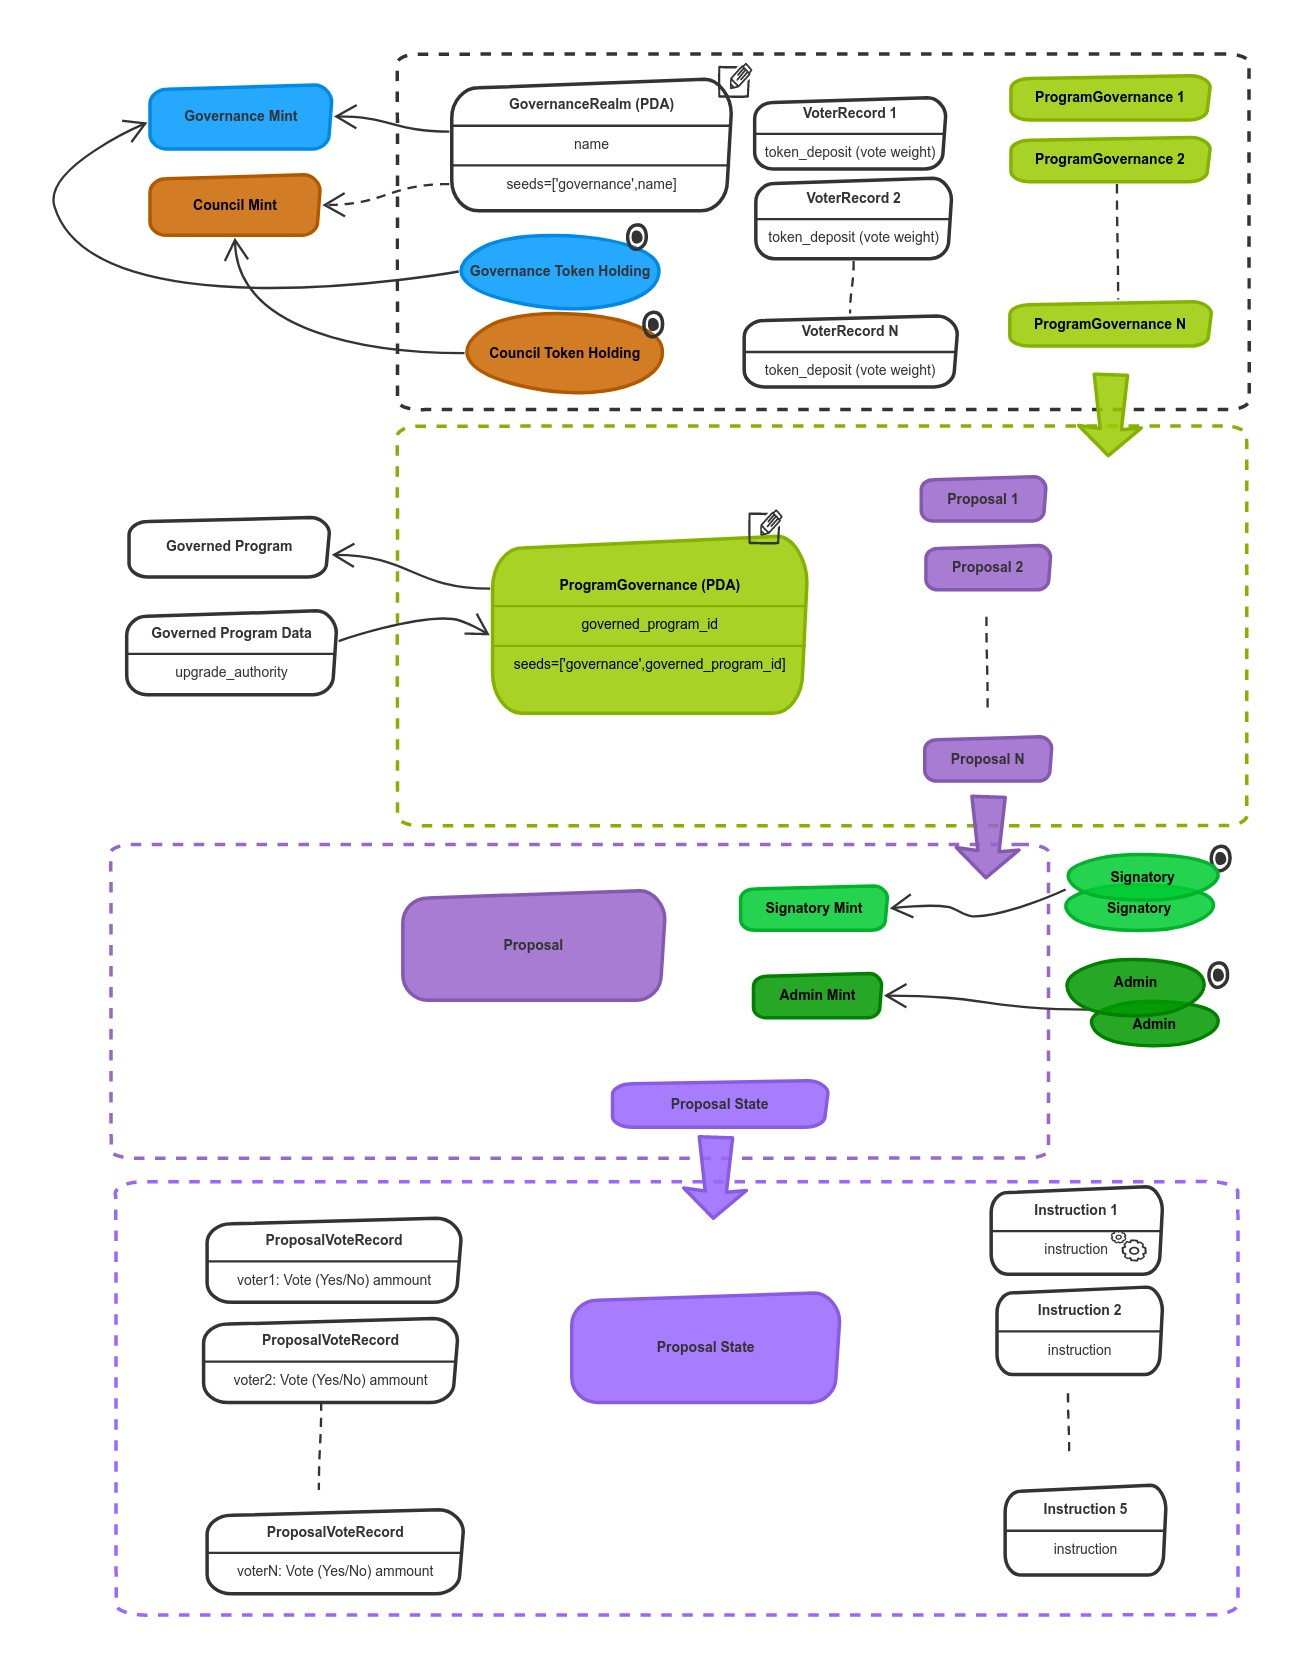
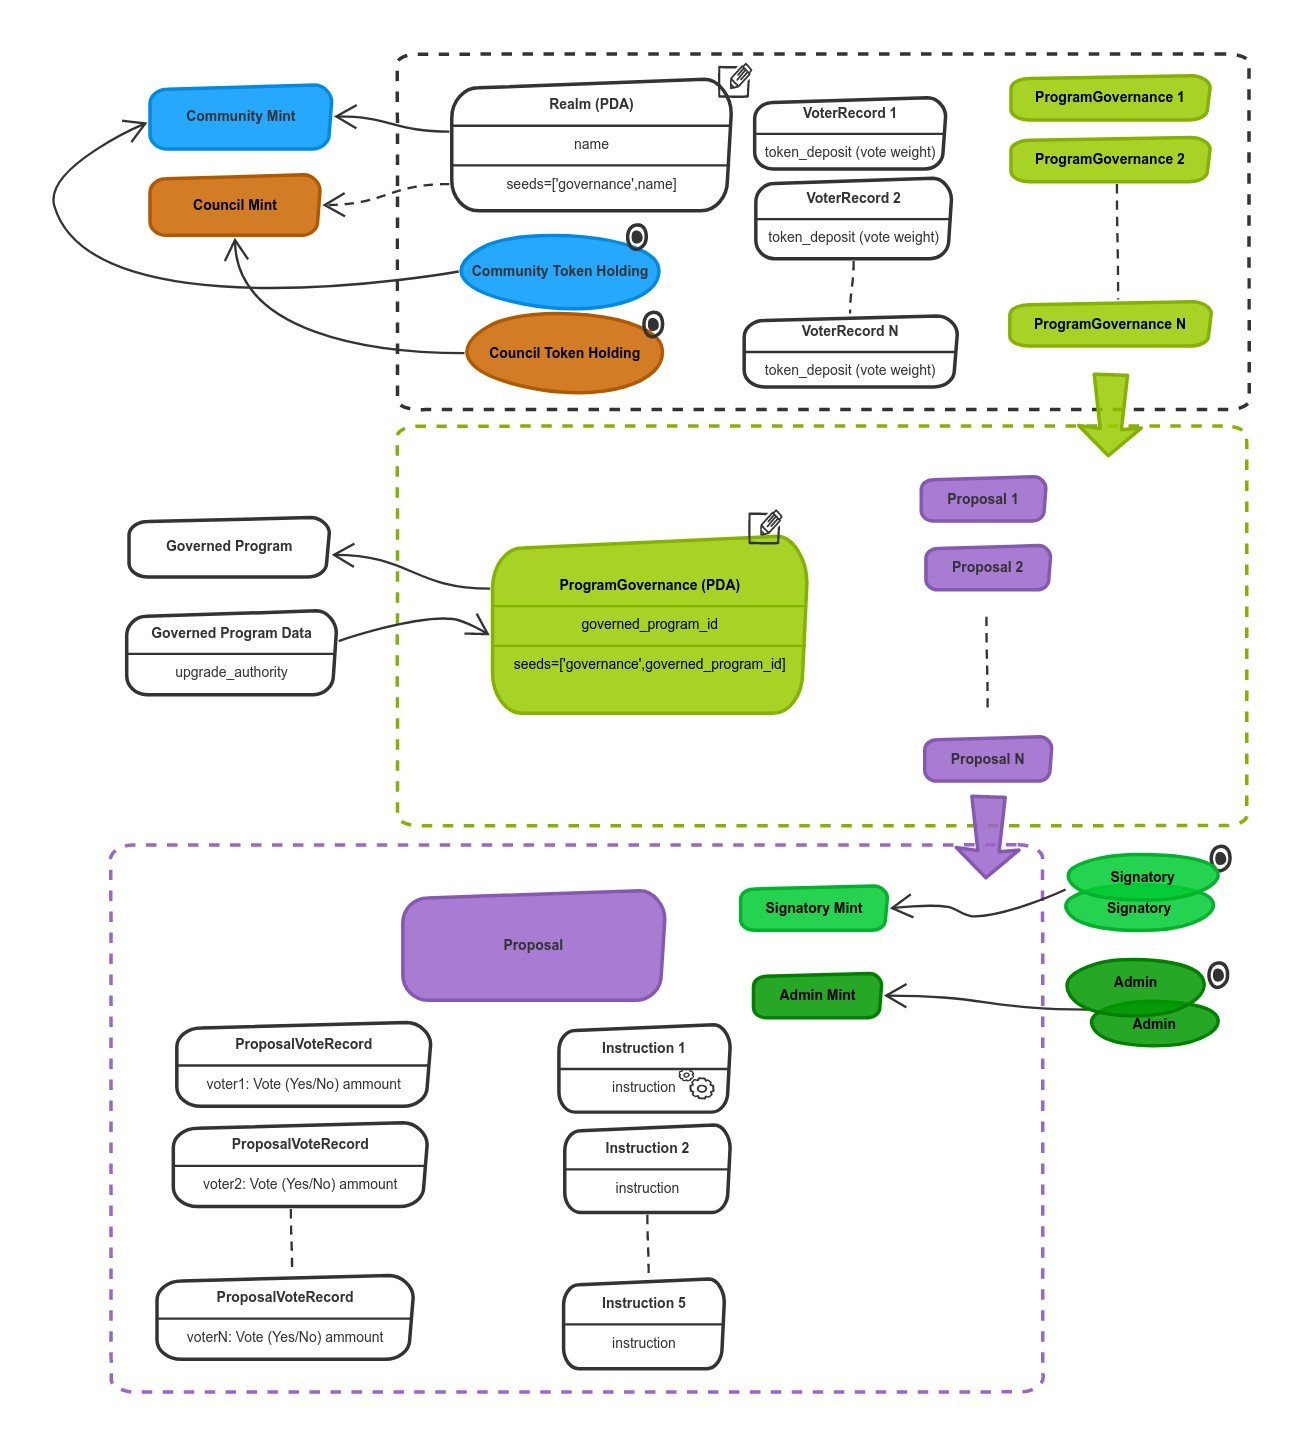
fix: rename Governance token to Community token

diff --git a/governance/program/src/instruction.rs b/governance/program/src/instruction.rs
@@ -19,24 +19,24 @@ pub enum Vote {
 #[repr(C)]
 #[allow(clippy::large_enum_variant)]
 pub enum GovernanceInstruction {
-    /// Creates Governance Realm account which aggregates governances for given Governance Mint and optional Council Mint
+    /// Creates Governance Realm account which aggregates governances for given Community Mint and optional Council Mint
     ///
     /// 0. `[writable]` Governance Realm account. PDA seeds:['governance',name]
-    /// 1. `[]` Governance Token Mint
-    /// 2. `[writable]` Governances Token Holding account
-    /// 3. `[signer]` Payer.
-    /// 4. `[]` System.
-    /// 5. `[]` SPL Token.
-    /// 6. `[]` Sysvar Rent.
+    /// 1. `[]` Community Token Mint
+    /// 2. `[writable]` Community Token Holding account
+    /// 3. `[signer]` Payer
+    /// 4. `[]` System
+    /// 5. `[]` SPL Token
+    /// 6. `[]` Sysvar Rent
     /// 7. `[]` Council Token Mint - optional
     /// 8. `[writable]` Council Token Holding account - optional
     CreateRealm {
-        /// UTF-8 encoded Governance Realm name.
+        /// UTF-8 encoded Governance Realm name
         name: String,
     },
 
-    /// Deposits governing tokens (Governance or Council) to Governance Realm and establishes your voter weight to be used for voting within the Realm
-    /// Note: If subsequent (top up) deposit is made and there are active votes for the Voter then the weights won't be updated automatically
+    /// Deposits governing tokens (Community or Council) to Governance Realm and establishes your voter weight to be used for voting within the Realm
+    /// Note: If subsequent (top up) deposit is made and there are active votes for the Voter then the vote weights won't be updated automatically
     /// It can be done by relinquishing votes on active Proposals and voting again with the new weight
     ///
     ///  0. `[]` Governance Realm account
@@ -44,12 +44,12 @@ pub enum GovernanceInstruction {
     ///  2. `[writable]` Governing Token Source account. All tokens from the account will be transferred to the Holding account
     ///  3. `[signer]` Governing Token Owner account
     ///  4. `[writable]` Voter Record account. PDA seeds: ['governance',realm, governing_token_mint, governing_token_owner]
-    ///  5. `[signer]` Payer.
-    ///  6. `[]` System.
-    ///  7. `[]` SPL Token.
+    ///  5. `[signer]` Payer
+    ///  6. `[]` System
+    ///  7. `[]` SPL Token
     DepositGoverningTokens {},
 
-    /// Withdraws governing tokens (Governance or Council) from Governance Realm and downgrades your voter weight within the Realm
+    /// Withdraws governing tokens (Community or Council) from Governance Realm and downgrades your voter weight within the Realm
     /// Note: It's only possible to withdraw tokens if the Voter doesn't have any outstanding active votes
     /// If there are any outstanding votes then they must be relinquished before tokens could be withdrawn
     ///
@@ -58,10 +58,10 @@ pub enum GovernanceInstruction {
     ///  2. `[writable]` Governing Token Destination account. All tokens will be transferred to this account
     ///  3. `[signer]` Governing Token Owner account
     ///  4. `[writable]` Voter Record account. PDA seeds: ['governance',realm, governing_token_mint, governing_token_owner]
-    ///  5. `[]` SPL Token.   
+    ///  5. `[]` SPL Token   
     WithdrawGoverningTokens {},
 
-    /// Sets vote authority for the given Realm and Governing Token Mint (Governance or Council)
+    /// Sets vote authority for the given Realm and Governing Token Mint (Community or Council)
     /// The vote authority would have voting rights and could vote on behalf of the Governing Token Owner
     ///
     /// 0. `[signer]` Governing Token Owner
@@ -80,7 +80,7 @@ pub enum GovernanceInstruction {
         vote_authority: Pubkey,
     },
 
-    /// Creates Program Governance account which governs an upgradable program.
+    /// Creates Program Governance account which governs an upgradable program
     ///
     ///   0. `[writable]` Governance account. PDA seeds: ['governance', governed_program]
     ///   1. `[]` Account of the Program governed by this Governance account
@@ -125,7 +125,7 @@ pub enum GovernanceInstruction {
         /// UTF-8 encoded name of the proposal
         name: String,
 
-        /// The Governing token (Governance or Council) which will be used for voting on the Proposal
+        /// The Governing token (Community or Council) which will be used for voting on the Proposal
         governing_token_type: GoverningTokenType,
     },
 
@@ -214,7 +214,7 @@ pub enum GovernanceInstruction {
     ///   6. `[]` Clock sysvar
     SignProposal,
 
-    ///  Uses your voter weight (deposited Governance or Council tokens) to cast a vote on a Proposal
+    ///  Uses your voter weight (deposited Community or Council tokens) to cast a vote on a Proposal
     ///  By doing so you indicate you approve or disapprove of running the Proposal set of instructions
     ///  If you tip the consensus then the instructions can begin to be run after their hold up time
     ///

diff --git a/governance/program/src/state.rs b/governance/program/src/state.rs
@@ -12,25 +12,25 @@ pub enum GovernanceAccountType {
     /// Default uninitialized account state
     Uninitialized,
 
-    /// Top level aggregation for governances within Governance Token (and optional Council Token).
+    /// Top level aggregation for governances with Community Token (and optional Council Token)
     Realm,
 
-    /// Voter record for each voter within a Realm.
+    /// Voter record for each voter and given governing token type within a Realm
     VoterRecord,
 
-    /// Program Governance account.
+    /// Program Governance account
     ProgramGovernance,
 
-    /// Proposal account for Governance account. A single Governance account can have multiple Proposal accounts.
+    /// Proposal account for Governance account. A single Governance account can have multiple Proposal accounts
     Proposal,
 
-    /// Proposal voting state account. Every Proposal account has exactly one ProposalState account.
+    /// Proposal voting state account. Every Proposal account has exactly one ProposalState account
     ProposalState,
 
-    /// Vote record account for a given Proposal.  Proposal can have 0..n voting records.
+    /// Vote record account for a given Proposal.  Proposal can have 0..n voting records
     ProposalVoteRecord,
 
-    /// Single Signer Instruction account which holds an instruction to execute for Proposal.
+    /// Single Signer Instruction account which holds an instruction to execute for Proposal
     SingleSignerInstruction,
 }
 
@@ -58,8 +58,8 @@ pub struct Realm {
     /// Governance account type
     pub account_type: GovernanceAccountType,
 
-    /// Governance mint
-    pub governance_mint: Pubkey,
+    /// Community mint
+    pub community_mint: Pubkey,
 
     /// Council mint
     pub council_mint: Option<Pubkey>,
@@ -72,8 +72,8 @@ pub struct Realm {
 #[repr(C)]
 #[derive(Clone)]
 pub enum GoverningTokenType {
-    /// Governance token
-    Governance,
+    /// Community token
+    Community,
     /// Council token
     Council,
 }
@@ -155,11 +155,11 @@ pub struct Proposal {
     /// to move instruction to voting state) and bring mint to net 0 tokens outstanding. Each signatory gets 1 (serves as flag)
     pub signatory_mint: Pubkey,
 
-    /// Admin ownership mint. One token is minted, can be used to grant admin status to a new person.
+    /// Admin ownership mint. One token is minted, can be used to grant admin status to a new person
     pub admin_mint: Pubkey,
 
-    /// Indicates which Governing Token is used to vote on the Proposal.
-    /// Whether the general Governance token owners populations or the Council votes on this Proposal
+    /// Indicates which Governing Token is used to vote on the Proposal
+    /// Whether the general Community token owners or the Council tokens owners vote on this Proposal
     pub voting_token_type: GoverningTokenType,
 }
 
@@ -185,7 +185,7 @@ pub struct ProposalState {
     /// Proposal name
     pub name: String,
 
-    /// When the Proposal ended voting - this will also be when the set was defeated or began executing naturally.
+    /// When the Proposal ended voting - this will also be when the set was defeated or began executing naturally
     pub voting_ended_at: Option<Slot>,
 
     /// When the Proposal began voting

diff --git a/governance/README.md b/governance/README.md
@@ -12,11 +12,11 @@ a voting population to vote on disbursement of access or funds collectively.
 
 ### Governance Realm account
 
-Governance Realm ties Governance Token Mint and optional Council Token mint to create a realm
+Governance Realm ties Community Token Mint and optional Council Token mint to create a realm
 for any governance pertaining to the community of the token holders.
 For example a trading protocol can issue a governance token and use it to create its governance realm.
 
-Once a realm is created voters can deposit Governing tokens (Governance or Council) to the realm and
+Once a realm is created voters can deposit Governing tokens (Community or Council) to the realm and
 use the deposited amount as their voting weight to vote on Proposals within that realm.
 
 ### Program Governance account
@@ -51,7 +51,7 @@ A Proposal is an instance of a Governance created to vote on and execute given s
 It is created by someone (Proposal Admin) and tied to a given Governance account
 and has a set of executable commands to it, a name and a description.
 It goes through various states (draft, voting, executing) and users can vote on it
-if they have relevant Governance or Council tokens.
+if they have relevant Community or Council tokens.
 It's rules are determined by the Governance account that it is tied to, and when it executes,
 it is only eligible to use the [Program Derived Address](https://docs.solana.com/developing/programming-model/calling-between-programs#program-derived-addresses)
 authority given by the Governance account.
@@ -62,15 +62,15 @@ With this power the Admin can add other Signatories to the Proposal.
 These Signatories can then add commands to the Proposal and/or sign off on the Proposal.
 Once all Signatories have signed off on the Proposal the Proposal leaves Draft state and enters Voting state.
 Voting state lasts as long as the Governance has it configured to last, and during this time
-people holding Governance (or Council) tokens may vote on the Proposal.
+people holding Community (or Council) tokens may vote on the Proposal.
 Once the Proposal is "tipped" it either enters the Defeated or Executing state.
 If Executed, it enters Completed state once all commands have been run.
 
 A command can be run by any one at any time after the `instruction_hold_up_time` length has transpired on the given command.
 
-### CustomSingleSignerInstruction
+### SingleSignerInstruction
 
-We only support one kind of executable command right now, and this is the CustomSingleSignerInstruction type.
+We only support one kind of executable command right now, and this is the `SingleSignerInstruction` type.
 A Proposal can have a certain number of these, and they run independently of each other.
 These contain the actual data for a command, and how long after the voting phase a user must wait before they can be executed.
 
@@ -82,10 +82,10 @@ and enters Succeeded or Defeated state. If Succeeded then Proposal instructions 
 
 Users can relinquish their vote any time during Proposal lifetime, but once Proposal it tipped their vote can't be changed.
 
-### Councils and Governance
+### Community and Councils governing tokens
 
-Each Governance that gets created has the option to also have a Council mint.
-A council mint is simply a separate mint from the Governance mint.
+Each Governance Realm that gets created has the option to also have a Council mint.
+A council mint is simply a separate mint from the Community mint.
 What this means is that users can submit Proposals that have a different voting population from a different mint
 that can affect the same program. A practical application of this policy may be to have a very large population control
 major version bumps of Solana via normal SOL, for instance, but hot fixes be controlled via Council tokens,
